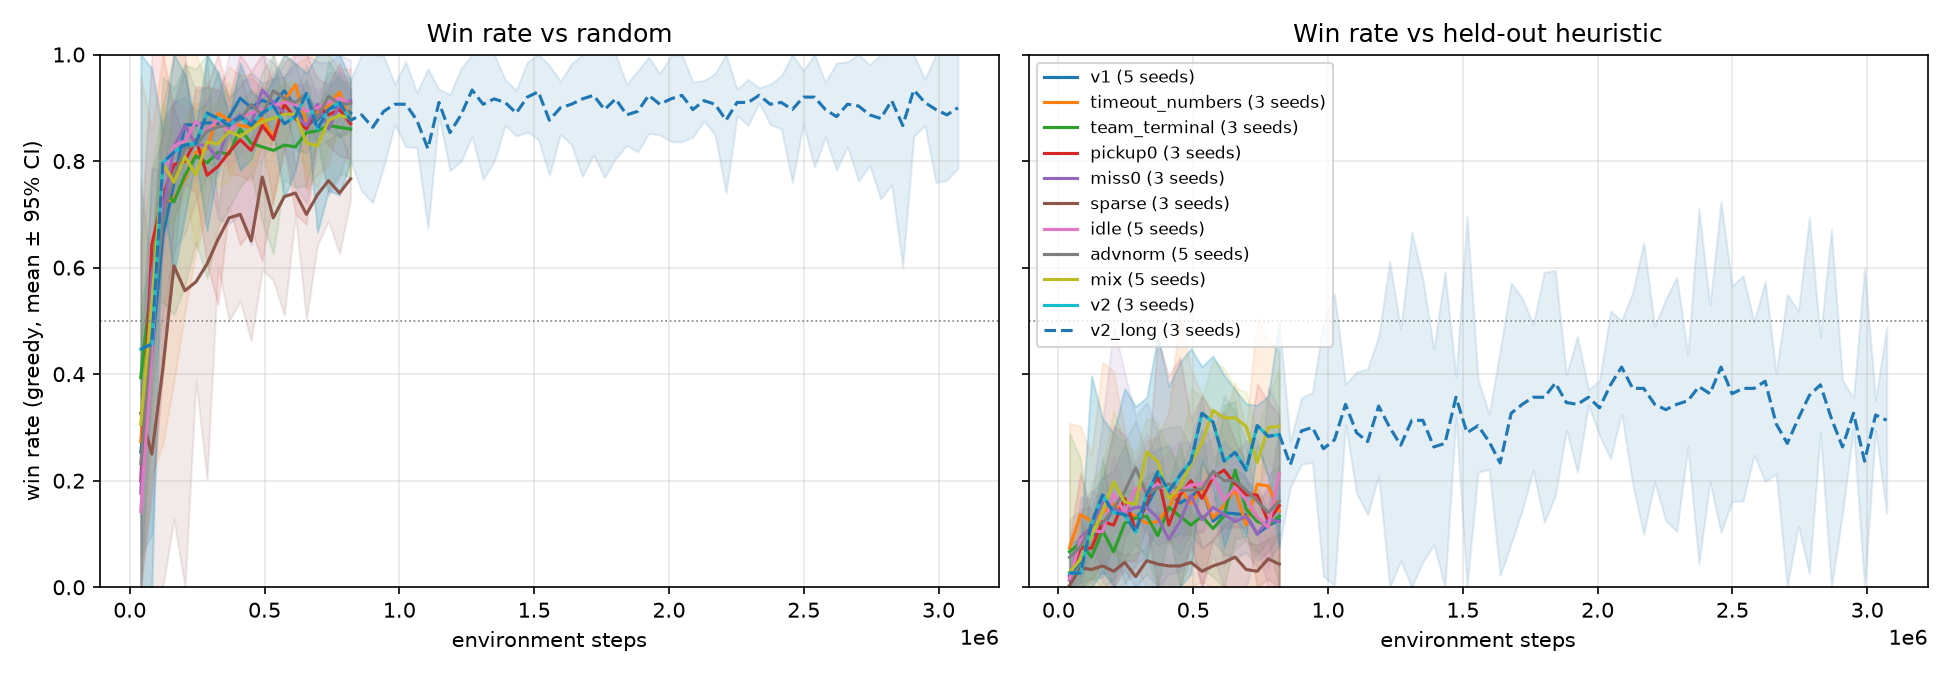
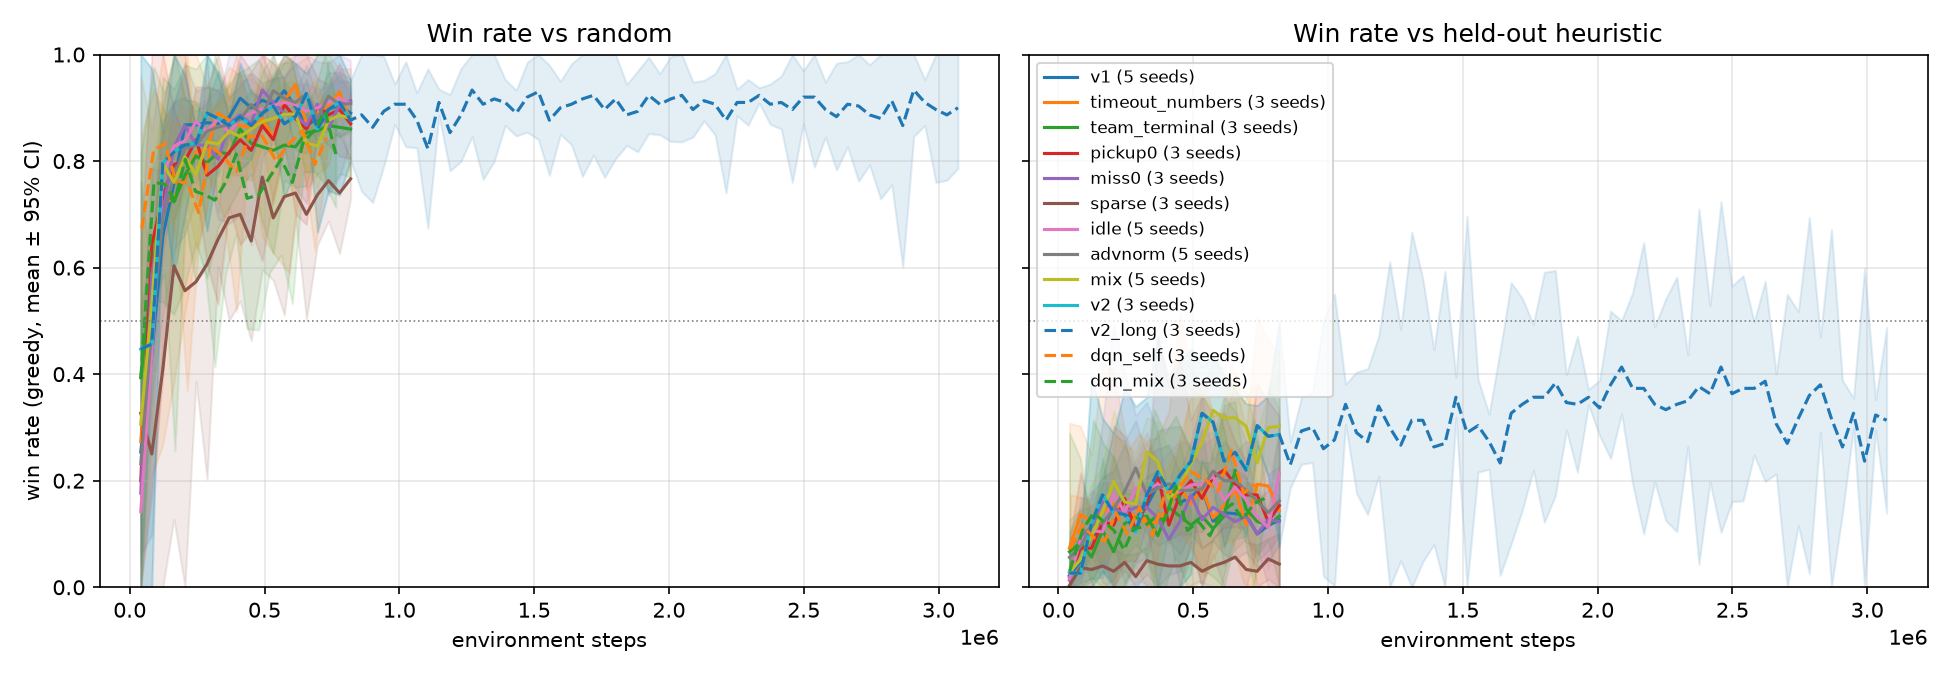
Add DQN vs PPO comparison and ceiling check, update README

Changed region(s): [[0.0615, 0.0933, 0.1846, 0.5289], [0.5231, 0.4978, 0.6769, 0.8711]]

diff --git a/experiments.py b/experiments.py
@@ -41,9 +41,13 @@ SMOKE = False
 FINAL_SEED = 100_000
 
 # Shared training budget and evaluation settings (don't change between runs).
-BASE = {
-    "algo": "ppo",
-    "args": ["--updates", "400", "--eval-every", "20", "--eval-games", "100", "--threads", "1"],
+# Both budgets are 819,200 environment steps (400 PPO updates x 2048 steps), with an
+# evaluation roughly every 41k steps (20 PPO updates; ~500 DQN episodes of ~83 steps).
+BASE_ARGS = {
+    "ppo": ["--updates", "400", "--eval-every", "20", "--eval-games", "100", "--threads", "1"],
+    # Replay buffer cut from 5M to 200k transitions (~1 GB) so 3 runs fit in 8 GB of RAM.
+    "dqn": ["--env-steps", "819200", "--eval-every", "500", "--eval-games", "100", "--threads", "1",
+            "--hp", "MEMORY_SIZE=200000", "--hp", "EPS_DECAY=1000000"],
 }
 
 # name -> (description, extra train.py arguments). Each is v1 + exactly one change.
@@ -70,7 +74,19 @@ EXPERIMENTS = {
     "v2_long": ("v2 trained for 1500 updates",
                 ["--hp", "P_SELF=0.4", "--hp", "P_PAST=0.3", "--hp", "P_HEURISTIC=0.2", "--hp", "P_RANDOM=0.1",
                  "--reward", "idle=-0.01", "--updates", "1500"]),
+    # DQN with the same 0.82M-step budget and v1 rewards (buffer 200k, see BASE_ARGS["dqn"]).
+    "dqn_self": ("DQN self-play, 0.82M steps, buffer 200k", []),
+    "dqn_mix": ("DQN + opponent mix (as PPO mix), 0.82M steps, buffer 200k",
+                ["--hp", "P_SELF=0.4", "--hp", "P_PAST=0.3", "--hp", "P_HEURISTIC=0.2", "--hp", "P_RANDOM=0.1"]),
 }
+EXPERIMENTS["dqn_mix_buf50k"] = (
+    "dqn_mix with a 50k replay buffer (tests whether stale replay data is why mixing doesn't help DQN)",
+    EXPERIMENTS["dqn_mix"][1] + ["--hp", "MEMORY_SIZE=50000"])   # later --hp wins over BASE_ARGS
+ALGO = {"dqn_self": "dqn", "dqn_mix": "dqn", "dqn_mix_buf50k": "dqn"}   # every other experiment is PPO
+
+
+def algo_of(name):
+    return ALGO.get(name, "ppo")
 
 FIELDS = ["experiment", "description", "algo", "seed", "checkpoint", "iterations", "env_steps",
           "win_random", "win_heuristic", "win_heuristic_variant", "draw_heuristic_variant",
@@ -88,8 +104,10 @@ def use_smoke_settings():
     RESULTS = ROOT / "runs" / "smoke" / "results"
     RESULTS_CSV = RESULTS / "experiments.csv"
     FINAL_GAMES = 20
-    BASE["args"] = ["--updates", "2", "--eval-every", "1", "--eval-games", "10", "--threads", "1",
-                    "--hp", "TIME=256"]
+    BASE_ARGS["ppo"] = ["--updates", "2", "--eval-every", "1", "--eval-games", "10", "--threads", "1",
+                        "--hp", "TIME=256"]
+    BASE_ARGS["dqn"] = ["--env-steps", "300", "--eval-every", "2", "--eval-games", "10", "--threads", "1",
+                        "--hp", "MEMORY_SIZE=5000", "--hp", "BATCH_SIZE=32"]
 
 
 def run_dir(name, seed):
@@ -98,7 +116,8 @@ def run_dir(name, seed):
 
 def train_command(name, seed):
     _, extra = EXPERIMENTS[name]
-    return [sys.executable, "-u", str(ROOT / "train.py"), BASE["algo"], *BASE["args"], *extra,
+    algo = algo_of(name)
+    return [sys.executable, "-u", str(ROOT / "train.py"), algo, *BASE_ARGS[algo], *extra,
             "--seed", str(seed), "--out-dir", str(run_dir(name, seed))]
 
 
@@ -159,7 +178,7 @@ def eval_run(name, seed):
 
     torch.set_num_threads(1)
     d = run_dir(name, seed)
-    algo = BASE["algo"]
+    algo = algo_of(name)
     config = json.loads((d / "config.json").read_text())
     with open(d / f"{algo}_eval.csv") as f:
         last = list(csv.DictReader(f))[-1]
@@ -283,7 +302,7 @@ def plot_curves(names, out):
     for i, name in enumerate(names):
         curves = []
         for d in sorted(RUNS.glob(f"{name}_s*")):
-            path = d / f"{BASE['algo']}_eval.csv"
+            path = d / f"{algo_of(name)}_eval.csv"
             if d.is_dir() and path.exists():
                 with open(path) as f:
                     curves.append(list(csv.DictReader(f)))
@@ -332,7 +351,7 @@ def main():
     p.add_argument("--description", default="")
     p = sub.add_parser("report")
     p.add_argument("names", nargs="*")
-    p.add_argument("--out", type=Path, default=RESULTS / "learning_curves.png")
+    p.add_argument("--out", type=Path, default=None, help="plot path (default: results/learning_curves.png)")
     args = parser.parse_args()
     if args.smoke:
         use_smoke_settings()
@@ -347,7 +366,7 @@ def main():
     elif args.cmd == "eval-checkpoint":
         eval_checkpoint(args.label, args.spec, args.seed, args.description)
     else:
-        report(args.names, args.out)
+        report(args.names, args.out or RESULTS / "learning_curves.png")
 
 
 if __name__ == "__main__":

diff --git a/train.py b/train.py
@@ -15,6 +15,7 @@ Examples::
 
     python train.py ppo --updates 300 --seed 0 --out-dir runs/ppo_s0
     python train.py dqn --episodes 3000 --seed 0 --out-dir runs/dqn_s0
+    python train.py dqn --env-steps 819200 --seed 0 --out-dir runs/dqn_s0   # same budget as 400 PPO updates
 
     # override hyperparameters (any upper-case attribute of DQNTrainer / PPOTrainer)
     python train.py ppo --hp LR=1e-4 --hp EPOCHS=8 --seed 0 --out-dir runs/ppo_lr1e-4_s0
@@ -134,6 +135,9 @@ def main():
     parser.add_argument("algo", choices=["dqn", "ppo"])
     parser.add_argument("--episodes", type=int, default=3000, help="DQN: number of training episodes")
     parser.add_argument("--updates", type=int, default=300, help="PPO: number of policy updates")
+    parser.add_argument("--env-steps", type=int, default=None,
+                        help="train for this many environment steps instead (DQN: stops after the episode "
+                             "that reaches it; PPO: rounds up to whole updates). Overrides --episodes/--updates")
     parser.add_argument("--seed", type=int, default=None)
     parser.add_argument("--out-dir", type=Path, default=Path("checkpoints"))
     parser.add_argument("--eval-every", type=int, default=None,
@@ -172,9 +176,11 @@ def main():
 
     try:
         if args.algo == "dqn":
-            episode_rewards = trainer.train(args.episodes, callback=evaluator)
+            episodes = args.episodes if args.env_steps is None else 10 ** 9
+            episode_rewards = trainer.train(episodes, callback=evaluator, max_env_steps=args.env_steps)
         else:
-            episode_rewards = trainer.train(args.updates, callback=evaluator)
+            updates = args.updates if args.env_steps is None else -(-args.env_steps // trainer_cls.TIME)
+            episode_rewards = trainer.train(updates, callback=evaluator)
     finally:
         evaluator.close()
 

diff --git a/dodgeball/policies.py b/dodgeball/policies.py
@@ -30,7 +30,9 @@ class HeuristicPolicy:
     Holding a ball:
         throw at the opponent with the best hit chance if it is at least ``min_chance``
         (or at anyone once the possession timer is nearly up), otherwise walk forward to
-        get closer.
+        get closer. At the half-way line it throws anyway, unless ``patient``: then it holds
+        the ball (which also makes it harder to hit) until the shot is good enough or the
+        possession timer forces a throw.
     Not holding a ball:
         walk to the nearest loose ball on our half; if there is none, back away from the
         half-way line when the opponents hold balls, to make their throws less accurate.
@@ -48,11 +50,12 @@ class HeuristicPolicy:
         policy.name = "heuristic_variant"
         return policy
 
-    def __init__(self, grid_size=8, min_chance=0.6, panic_timer=2):
+    def __init__(self, grid_size=8, min_chance=0.6, panic_timer=2, patient=False):
         self.g = grid_size
         self.h = 2 * grid_size
         self.min_chance = min_chance
         self.panic_timer = panic_timer
+        self.patient = patient
 
     def _parse(self, obs):
         grid = obs[:GRID_CHANNELS * self.h * self.g].reshape(GRID_CHANNELS, self.h, self.g)
@@ -89,6 +92,8 @@ class HeuristicPolicy:
             return best_action
         if mask[FORWARD]:
             return FORWARD
+        if self.patient:
+            return STAY
         return best_action if best_action is not None else STAY
 
     def _fetch_or_retreat(self, teammates, balls, my_x, my_y, extra, mask):

diff --git a/tests/test_policies.py b/tests/test_policies.py
@@ -2,7 +2,7 @@ import numpy as np
 import pytest
 
 from dodgeball.agents import DQN, PPO
-from dodgeball.env import BACK, FORWARD, N_MOVE_ACTIONS, RIGHT, DodgeballEnv
+from dodgeball.env import BACK, FORWARD, N_MOVE_ACTIONS, RIGHT, STAY, DodgeballEnv
 from dodgeball.policies import HeuristicPolicy, NetworkPolicy, RandomPolicy, head_to_head, play_game
 from tests.conftest import set_layout
 
@@ -88,3 +88,14 @@ def test_head_to_head_alternates_sides():
     result = head_to_head(env, RandomPolicy(1), RandomPolicy(2), games=400)
     assert abs(result["win"] - result["loss"]) < 0.15
     assert np.isclose(result["win"] + result["loss"] + result["draw"], 1.0)
+
+
+def test_patient_heuristic_holds_a_bad_shot_at_the_line(env):
+    # At the half-way line (can't move forward), with the only target ~10 squares away (40% shot).
+    set_layout(env, {0: (7, 7), 6: (0, 15)}, balls={(7, 7): 1})
+    env.possession_timer[0] = env.possession_limit
+    obs, mask = env._observe(0), env.action_mask(0)
+    assert HeuristicPolicy(env.grid_size).act(obs, mask) >= N_MOVE_ACTIONS      # throws anyway
+    assert HeuristicPolicy(env.grid_size, patient=True).act(obs, mask) == STAY  # waits
+    env.possession_timer[0] = 1                                                 # ...until forced
+    assert HeuristicPolicy(env.grid_size, patient=True).act(env._observe(0), mask) >= N_MOVE_ACTIONS

diff --git a/dodgeball/agents/dqn.py b/dodgeball/agents/dqn.py
@@ -157,9 +157,11 @@ class DQNTrainer:
             target_state[key] = policy_state[key] * self.TAU + target_state[key] * (1 - self.TAU)
         self.target_net.load_state_dict(target_state)
 
-    def train(self, num_episodes, log_every=10, callback=None):
+    def train(self, num_episodes, log_every=10, callback=None, max_env_steps=None):
         """Train for ``num_episodes`` and return the total reward of each episode.
 
+        With ``max_env_steps``, training also stops after the first episode that reaches that
+        many environment steps (so DQN and PPO can be given the same budget).
         ``callback(episode)`` is called after every episode (used for periodic evaluation).
         """
         episode_rewards = []
@@ -214,6 +216,9 @@ class DQNTrainer:
                 print(f"episode {i_episode + 1}/{num_episodes}  mean reward (last {log_every}): {recent:.1f}")
             if callback is not None:
                 callback(i_episode + 1)
+            if max_env_steps is not None and self.env_steps >= max_env_steps:
+                print(f"reached {self.env_steps} environment steps after {i_episode + 1} episodes")
+                break
 
         return episode_rewards
 

diff --git a/tests/test_rewards.py b/tests/test_rewards.py
@@ -217,3 +217,13 @@ def test_head_to_head_reports_behaviour():
     res = head_to_head(env, HeuristicPolicy(), RandomPolicy(0), games=20)
     assert res["throws_per_game"] > 0 and res["pickups_per_game"] >= 0
     assert 0 <= res["idle_frac"] <= 1
+
+
+def test_dqn_stops_after_the_episode_that_reaches_the_step_budget():
+    env = DodgeballEnv()
+    env.reset(seed=0)
+    trainer = seeded(DQNTrainer, env, MEMORY_SIZE=10_000)
+    rewards = trainer.train(10 ** 6, log_every=100, max_env_steps=50)
+    assert trainer.env_steps >= 50
+    assert trainer.env_steps - 50 < env.max_steps          # stopped within one episode
+    assert len(rewards) < 10

diff --git a/README.md b/README.md
@@ -179,12 +179,40 @@ What the experiments show:
 - **Longer training helps a little, then plateaus.** v2 peaks at ~35–40% around 700–1000
   updates and is ~30% at 1500. The agents beat random reliably, but they still lose most games
   against the held-out heuristic.
-- **Mixing didn't help DQN** (single seed, 20k episodes): the final checkpoint fell to 14%
-  against the held-out heuristic. Possibly because the replay buffer mixes experience from
-  many past opponents.
-
 (v2 and v2 at 1500 updates use the same seeds, so their curves are identical for the first
 400 updates, which shows that runs are reproducible.)
+
+### DQN vs PPO at the same budget
+
+Both get 819,200 environment steps (`--env-steps` for DQN), v1 rewards, the same evaluation
+and the same best-checkpoint rule. DQN's replay buffer is 200k transitions, not the 5M default,
+so that 3 runs fit in 8 GB of RAM; this is recorded in each run's `config.json`.
+
+| Config | Seeds | Final: vs random | Final: vs held-out | Best: vs held-out | Best: vs standard heuristic |
+|---|---|---|---|---|---|
+| PPO self-play (v1) | 5 | 91.2% ± 1.8 | 14.4% ± 4.6 | 21.4% ± 6.7 | 27.6% ± 8.0 |
+| PPO + opponent mix | 5 | 87.2% ± 2.6 | **28.6% ± 9.0** | **32.2% ± 3.8** | 31.8% ± 5.6 |
+| DQN self-play | 3 | 88.9% ± 4.9 | 20.2% ± 3.9 | 20.5% ± 12.9 | 24.7% ± 3.8 |
+| DQN + opponent mix | 3 | 81.7% ± 16.5 | 19.3% ± 8.1 | 17.6% ± 3.9 | 28.9% ± 6.2 |
+
+![DQN vs PPO learning curves](results/dqn_vs_ppo.png)
+
+(DQN evaluates every 500 episodes, so its curves stop where the shortest seed's last
+in-training evaluation was, ~0.75M steps. The table's final row is at 0.82M.)
+
+- **With self-play, DQN and PPO are about equal.** DQN's final checkpoint is slightly
+  better against the held-out heuristic (20% vs 14%), but the CIs overlap. It also forgets less
+  between its best and final checkpoints.
+- **Opponent mixing helps PPO but not DQN.** DQN with mixing is no better than DQN self-play,
+  and its best checkpoint is clearly behind PPO with mixing (18% ± 4 vs 32% ± 4). DQN with mixing
+  beats the *standard* heuristic, which it trains against (29%), much more often than the held-out
+  one (18%). So it seems to learn that specific opponent rather than general play. PPO with mixing
+  scores about the same against both. A likely cause: DQN's replay buffer keeps learning from old
+  games against past opponents, while PPO only learns from its latest games.
+- **DQN costs more compute.** It does a gradient step on every environment step: ~1 hour per
+  run alone, versus about the same for PPO with 6 runs in parallel.
+- **Overall, PPO with opponent mixing is the best configuration found.** DQN is no better than
+  PPO at this budget.
 
 ## Usage
 

diff --git a/results/summary.md b/results/summary.md
@@ -15,6 +15,8 @@ Final evaluation: greedy actions, 500 games per opponent per run, sides alternat
 | mix | opponent mix: 40% self, 30% past, 20% heuristic, 10% random | 5 | 87.2% ± 2.6% | 28.6% ± 9.0% | 30.6% ± 9.8% | 2.2 | 17.1 | 38% |
 | v2 | v2 = mix + idle penalty (400 updates) | 3 | 90.5% ± 4.3% | 27.6% ± 19.4% | 25.3% ± 8.1% | 2.1 | 14.3 | 23% |
 | v2_long | v2 trained for 1500 updates | 3 | 92.0% ± 3.4% | 30.2% ± 5.5% | 29.7% ± 5.5% | 1.8 | 12.8 | 20% |
+| dqn_self | DQN self-play, 0.82M steps, buffer 200k | 3 | 88.9% ± 4.9% | 20.2% ± 3.9% | 18.3% ± 5.0% | 2.2 | 11.9 | 49% |
+| dqn_mix | DQN + opponent mix (as PPO mix), 0.82M steps, buffer 200k | 3 | 81.7% ± 16.5% | 19.3% ± 8.1% | 25.6% ± 2.6% | 2.0 | 10.8 | 24% |
 | v1_dqn_mix20k | DQN 20k, opponent mix 50/25/25 (final) | 1 | 86.2% | 14.2% | 20.0% | 2.2 | 11.1 | 29% |
 | v1_legacy_dqn20k | DQN 20k episodes, self-play (final) | 1 | 90.6% | 23.6% | 23.4% | 2.2 | 11.9 | 26% |
 | v1_legacy_dqn20k_double | Double DQN 20k (final) | 1 | 89.6% | 15.6% | 17.6% | 2.3 | 11.0 | 37% |
@@ -34,6 +36,8 @@ Final evaluation: greedy actions, 500 games per opponent per run, sides alternat
 | mix | opponent mix: 40% self, 30% past, 20% heuristic, 10% random | 5 | 87.4% ± 1.5% | 32.2% ± 3.8% | 31.8% ± 5.6% | 2.1 | 17.0 | 39% |
 | v2 | v2 = mix + idle penalty (400 updates) | 3 | 85.9% ± 2.1% | 31.4% ± 7.7% | 27.7% ± 12.6% | 2.1 | 14.1 | 25% |
 | v2_long | v2 trained for 1500 updates | 3 | 91.9% ± 9.8% | 35.9% ± 6.0% | 35.7% ± 7.1% | 1.9 | 14.1 | 20% |
+| dqn_self | DQN self-play, 0.82M steps, buffer 200k | 3 | 86.5% ± 13.2% | 20.5% ± 12.9% | 24.7% ± 3.8% | 2.0 | 11.4 | 20% |
+| dqn_mix | DQN + opponent mix (as PPO mix), 0.82M steps, buffer 200k | 3 | 87.4% ± 8.4% | 17.6% ± 3.9% | 28.9% ± 6.2% | 2.2 | 11.4 | 32% |
 | v1_dqn_mix20k_best | DQN 20k, opponent mix 50/25/25 (best) | 1 | 94.2% | 30.0% | 35.4% | 1.8 | 12.0 | 16% |
 | v1_legacy_dqn20k | DQN 20k episodes, self-play (best) | 1 | 90.4% | 29.6% | 38.0% | 2.4 | 12.6 | 55% |
 | v1_legacy_dqn20k_double | Double DQN 20k (best) | 1 | 91.6% | 30.2% | 34.4% | 2.0 | 11.2 | 14% |

diff --git a/results/summary_dqn_vs_ppo.md b/results/summary_dqn_vs_ppo.md
@@ -1,0 +1,19 @@
+Final evaluation: greedy actions, 500 games per opponent per run, sides alternated. Mean over seeds ± 95% CI (t-distribution).
+
+### Final checkpoint
+
+| Experiment | Change | Seeds | Win vs random | Win vs held-out heuristic | Win vs heuristic | Pickups/game | Throws/game | Idle |
+|---|---|---|---|---|---|---|---|---|
+| v1 | baseline: current rewards and trainer | 5 | 91.2% ± 1.8% | 14.4% ± 4.6% | 15.1% ± 5.3% | 1.7 | 14.2 | 34% |
+| mix | opponent mix: 40% self, 30% past, 20% heuristic, 10% random | 5 | 87.2% ± 2.6% | 28.6% ± 9.0% | 30.6% ± 9.8% | 2.2 | 17.1 | 38% |
+| dqn_self | DQN self-play, 0.82M steps, buffer 200k | 3 | 88.9% ± 4.9% | 20.2% ± 3.9% | 18.3% ± 5.0% | 2.2 | 11.9 | 49% |
+| dqn_mix | DQN + opponent mix (as PPO mix), 0.82M steps, buffer 200k | 3 | 81.7% ± 16.5% | 19.3% ± 8.1% | 25.6% ± 2.6% | 2.0 | 10.8 | 24% |
+
+### Best checkpoint
+
+| Experiment | Change | Seeds | Win vs random | Win vs held-out heuristic | Win vs heuristic | Pickups/game | Throws/game | Idle |
+|---|---|---|---|---|---|---|---|---|
+| v1 | baseline: current rewards and trainer | 5 | 88.5% ± 2.5% | 21.4% ± 6.7% | 27.6% ± 8.0% | 1.9 | 13.7 | 31% |
+| mix | opponent mix: 40% self, 30% past, 20% heuristic, 10% random | 5 | 87.4% ± 1.5% | 32.2% ± 3.8% | 31.8% ± 5.6% | 2.1 | 17.0 | 39% |
+| dqn_self | DQN self-play, 0.82M steps, buffer 200k | 3 | 86.5% ± 13.2% | 20.5% ± 12.9% | 24.7% ± 3.8% | 2.0 | 11.4 | 20% |
+| dqn_mix | DQN + opponent mix (as PPO mix), 0.82M steps, buffer 200k | 3 | 87.4% ± 8.4% | 17.6% ± 3.9% | 28.9% ± 6.2% | 2.2 | 11.4 | 32% |
